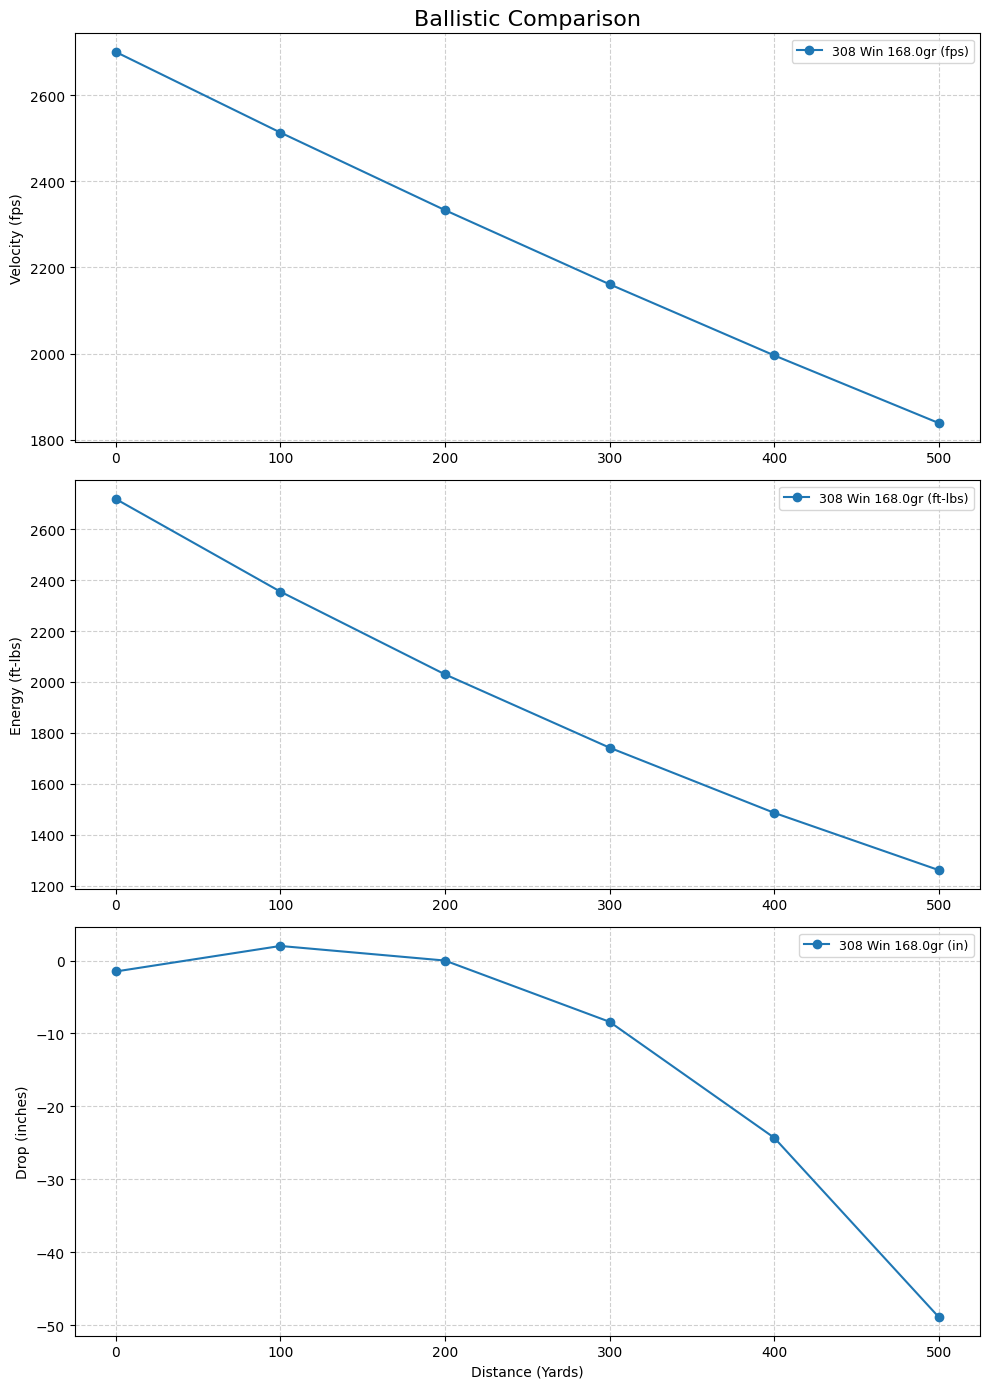
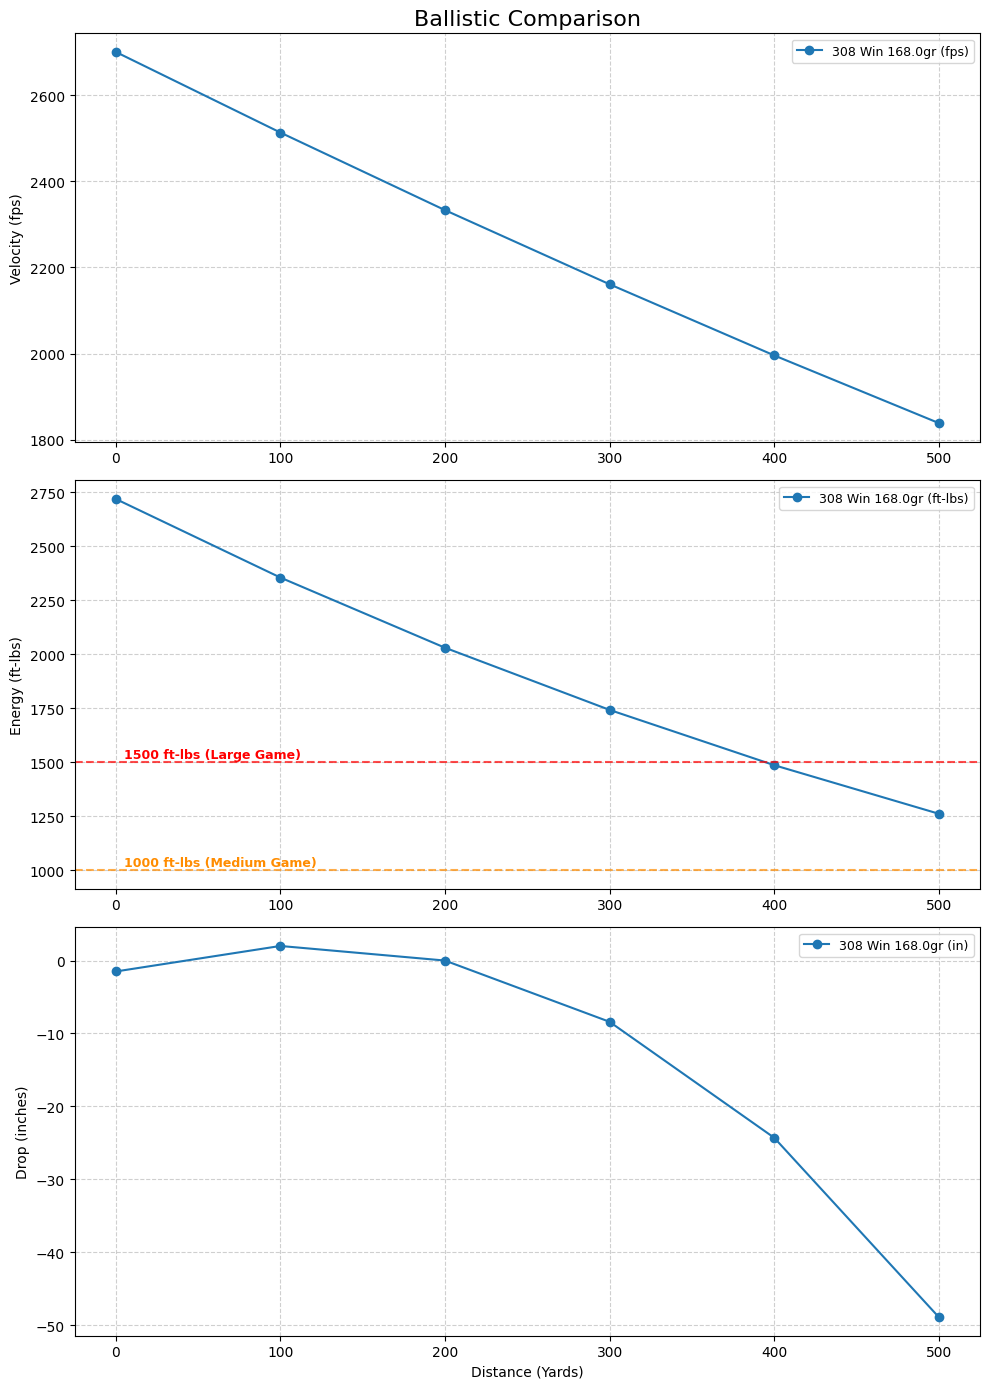
Final touches

diff --git a/main.py b/main.py
@@ -5,12 +5,8 @@ def print_ballistics_comparison(selected_objects):
     """Prints Velocity, Energy, and Trajectory tables with perfect mathematical alignment."""
     distances = [0, 100, 200, 300, 400, 500]
     
-    # ADJUST THESE TO YOUR LIKING:
-    name_width = 38    # Width for the Cartridge name column
-    data_width = 12    # Width for each yardage column (0yd, 100yd, etc.)
-    
-    # Calculate the total width so the dashed lines and titles match the data perfectly
-    # (6 columns * 12 width) + 38 = 110 total width
+    name_width = 38
+    data_width = 12
     total_width = name_width + (len(distances) * data_width)
     
     sections = [
@@ -20,19 +16,15 @@ def print_ballistics_comparison(selected_objects):
     ]
 
     for title, method_name in sections:
-        # 1. Section Title (Centered over the total width)
+
         print(f"\n{title.center(total_width)}")
         
-        # 2. Header Row (0yd, 100yd, etc.)
-        # The empty space for 'Cartridge' matches name_width, then each 'yd' matches data_width
         header = f"{'Cartridge':<{name_width}}" 
         header += "".join([f"{str(d)+'yd':>{data_width}}" for d in distances])
         print(header)
         
-        # 3. Dashed Line (Exactly the width of the table)
         print("-" * total_width)
 
-        # 4. Data Rows
         for obj in selected_objects:
             name_label = f"{obj.cartridge} ({obj.bullet_weight}gr)"
             row = f"{name_label:<{name_width}}"
@@ -43,7 +35,6 @@ def print_ballistics_comparison(selected_objects):
                     row += f"{'--':>{data_width}}"
                 else:
                     fmt = ".1f" if method_name == "drop" else ".0f"
-                    # Every value is forced into the data_width
                     row += f"{val:>{data_width}{fmt}}"
             print(row)
     pass
@@ -57,14 +48,12 @@ def main():
     print("Welcome to the Ballistics Comparator".center(width))
     print("=" * width)
     
-    # 1. Get the user's selections
     selections = collect_user_selections(all_calibers)
     
     if not selections:
         print("\nNo selections made. Exiting.")
         return
 
-    # 2. Match selections to objects
     matched_objects = []
     for name, grain in selections:
         target_grain = float(grain)
@@ -73,14 +62,11 @@ def main():
                 matched_objects.append(obj)
                 break
 
-    # 3. Print the Tables
     print("\n" + "=" * width)
     print("FINAL BALLISTICS COMPARISON".center(width))
     print("=" * width)
     print_ballistics_comparison(matched_objects)
 
-    # 4. Generate the Graph
-    # We pass the same 'matched_objects' so the table and graph are in sync
     plot_caliber_data(matched_objects)
 
 if __name__ == "__main__":

diff --git a/graph.py b/graph.py
@@ -3,24 +3,31 @@ matplotlib.use('Agg')
 import matplotlib.pyplot as plt
 
 def plot_caliber_data(selected_objects):
-    """Generates graphs for the specifically selected Caliber objects."""
     if not selected_objects:
         return
     
     fig, (ax1, ax2, ax3) = plt.subplots(3, 1, figsize=(10, 14))
-    distances = [0, 100, 200, 300, 400, 500] # Or Caliber.DISTANCES
+    distances = [0, 100, 200, 300, 400, 500]
     
+
     for obj in selected_objects:
         label = f"{obj.cartridge} {obj.bullet_weight}gr"
         
-        # Plotting Velocity
         ax1.plot(distances, [obj.vel(d) for d in distances], marker='o', label=f'{label} (fps)')
-        
-        # Plotting Energy
         ax2.plot(distances, [obj.eng(d) for d in distances], marker='o', label=f'{label} (ft-lbs)')
-        
-        # Plotting Trajectory
         ax3.plot(distances, [obj.drop(d) for d in distances], marker='o', label=f'{label} (in)')
+
+
+    thresholds = [
+        (1500, 'red', '1500 ft-lbs (Large Game)'),
+        (1000, 'darkorange', '1000 ft-lbs (Medium Game)')
+    ]
+
+    for value, color, text_label in thresholds:
+
+        ax2.axhline(y=value, color=color, linestyle='--', linewidth=1.5, alpha=0.7)
+
+        ax2.text(5, value + 20, text_label, color=color, fontsize=9, fontweight='bold')
 
     ax1.set_title('Ballistic Comparison', fontsize=16)
     ax1.set_ylabel('Velocity (fps)')

diff --git a/class_and_functions.py b/class_and_functions.py
@@ -4,7 +4,6 @@ import csv
 def _to_float(value):
     if value is None:
         return None
-    # strip surrounding whitespace and stray quotes
     s = str(value).strip().strip('"')
     if s == "":
         return None
@@ -148,19 +147,16 @@ def collect_user_selections(caliber_objects, max_selections=4):
             print_available_calibers(caliber_objects)
             continue
 
-        # 1. Caliber Match
         matches = find_calibers_fuzzy(caliber_objects, query)
         selected_caliber = get_user_choice(matches, "caliber")
         if not selected_caliber: continue
 
-        # 2. Grain Match
         grains = get_available_grains(caliber_objects, selected_caliber)
         grain_options = [str(g) for g in grains]
         print(f"\nAvailable weights for {selected_caliber}: {', '.join(grain_options)} gr")
         
         selected_grain = get_user_choice(grain_options, "grain weight")
         
-        # 3. Finalize
         if selected_grain:
             user_selection.append((selected_caliber, selected_grain))
             print(f"\n✅ Added: {selected_caliber} - {selected_grain} gr")
